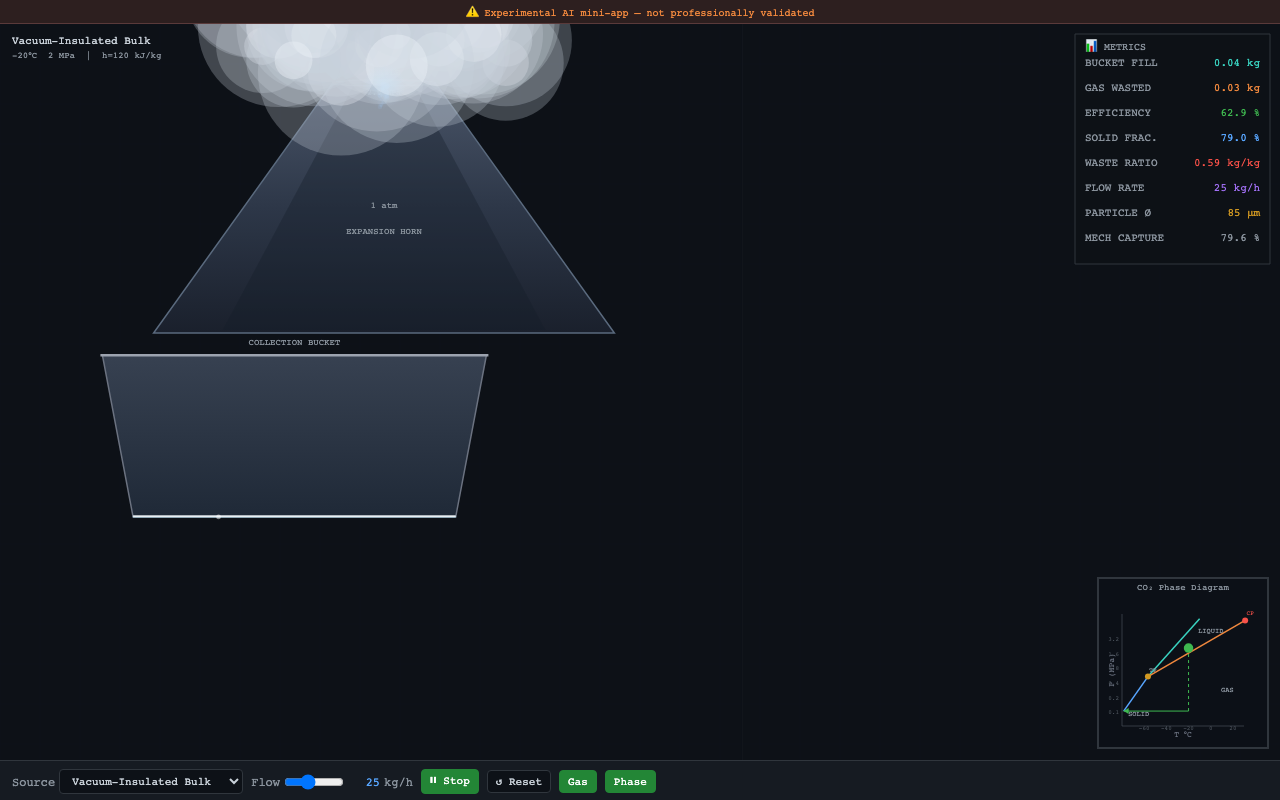
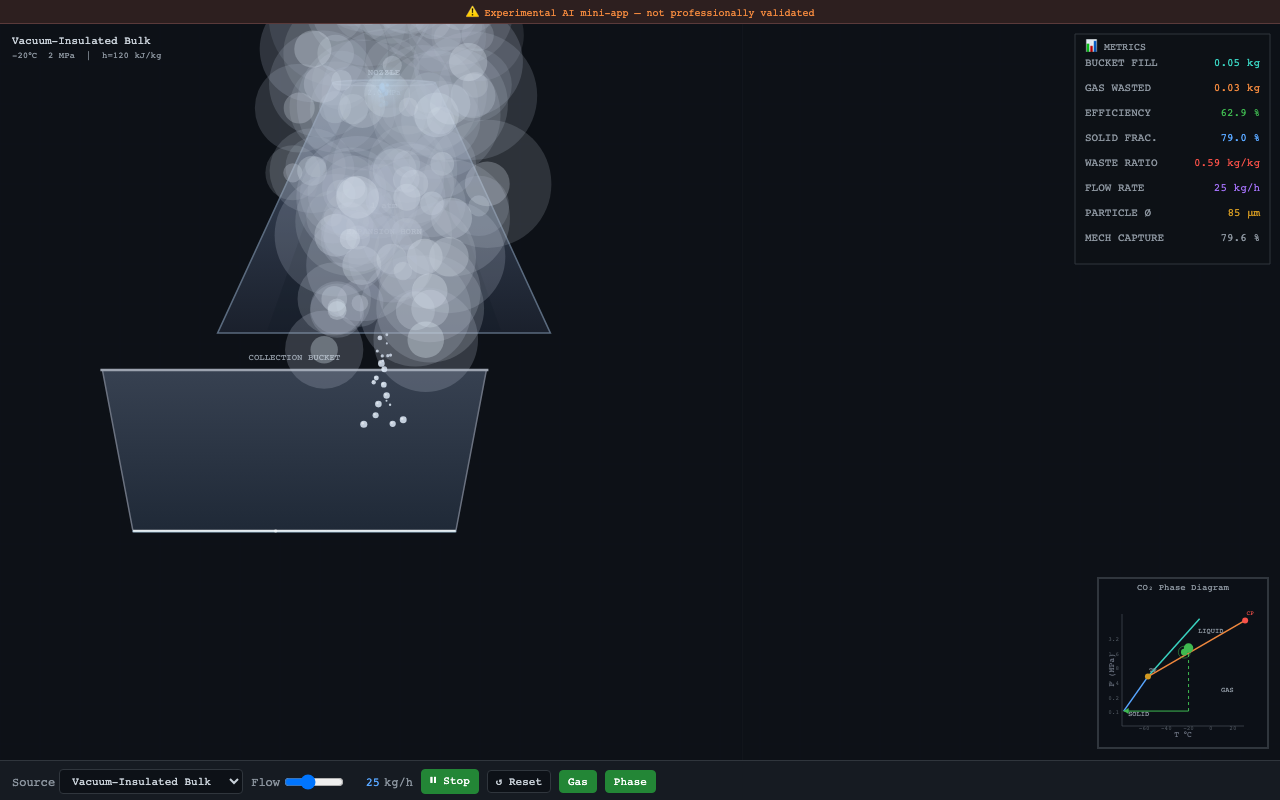
CO2 Snow Maker v2.5 — continuous snow/gas, narrower horn, lower bucket, transparent plumes, animated phase dot

Changed region(s): [[0.0625, 0.0312, 0.4688, 0.5625], [0.0938, 0.5312, 0.375, 0.6875]]

diff --git a/app-gallery/apps/2026-05-02-co2-snow-maker/index.html b/app-gallery/apps/2026-05-02-co2-snow-maker/index.html
@@ -90,9 +90,9 @@ function spawnSnow(){
 }
 function spawnGas(){
   if(!showGas)return;
-  const cx=W*.30, hb=H*.42, gy=hb+H*.03;
-  for(let k=0;k<10;k++){
-    gasP.push({x:cx+(Math.random()-.5)*140, y:gy+Math.random()*20, vx:(Math.random()-.5)*60, vy:-(100+Math.random()*200), r:25+Math.random()*50, life:1, ph:Math.random()*Math.PI*2});
+  const cx=W*.30, hb=H*.42, gy=hb+H*.05;
+  for(let k=0;k<4;k++){
+    gasP.push({x:cx+(Math.random()-.5)*140, y:gy+Math.random()*20, vx:(Math.random()-.5)*50, vy:-(80+Math.random()*160), r:20+Math.random()*40, life:1, ph:Math.random()*Math.PI*2});
   }
 }
 
@@ -104,8 +104,20 @@ function update(dt){
   t+=dt;
 
   if(liqP.length<30) spawnLiq();
-  if(snowP.length<250) for(let i=0;i<3;i++) spawnSnow();
-  if(gasP.length<400) spawnGas();
+  
+  // Continuous snow spawn based on flow rate
+  const snowPerSec = flow * 0.5;
+  const toSpawn = Math.floor(snowPerSec * dt);
+  for(let i=0;i<toSpawn;i++) spawnSnow();
+  
+  // Always spawn at least some
+  if(Math.random()<snowPerSec*dt-toSpawn) spawnSnow();
+  
+  // Continuous gas spawn
+  const gasPerSec = flow * 0.4;
+  const gasToSpawn = Math.floor(gasPerSec * dt);
+  for(let i=0;i<gasToSpawn;i++) spawnGas();
+  if(Math.random()<gasPerSec*dt-gasToSpawn) spawnGas();
 
   // Liquid - fall through horn
   for(let p of liqP){
@@ -115,7 +127,7 @@ function update(dt){
   liqP=liqP.filter(p=>p.life>0&&p.y<H*.35);
 
   // Bucket params matching draw
-  const bx=W*.08, bw=W*.30, by=H*.52, bh=H*.22;
+  const bx=W*.08, bw=W*.30, by=H*.55, bh=H*.22;
   const bB=by+bh;
 
   // Snow - gravity + bucket capture
@@ -131,7 +143,8 @@ function update(dt){
       if(!p.inB){p.inB=true;p.vx*=0.15;p.vy*=0.05;}
       if(p.y>bB-6){p.y=bB-6;p.vy=0;p.vx*=0.3;}
     } else if(p.y>bB){p.life=0;}
-    p.life-=dt*.08;
+    // Don't decay life for settled particles
+    if(!p.inB) p.life-=dt*.05;
   }
   snowP=snowP.filter(p=>p.life>0);
 
@@ -140,7 +153,7 @@ function update(dt){
     p.y+=p.vy*dt;
     p.x+=p.vx*dt+Math.sin(p.ph+t*4)*20*dt;
     p.r+=dt*3;
-    p.life-=dt*.15;
+    p.life-=dt*.12;
   }
   gasP=gasP.filter(p=>p.life>0);
 }
@@ -163,10 +176,10 @@ function draw(){
   // ── Layout coordinates ──
   const cx=W*.30;
   const nt=W*.04;      // horn top radius
-  const nb=W*.18;      // horn bottom radius
+  const nb=W*.13;      // horn bottom radius (narrower than bucket)
   const hy=H*.08;      // horn top Y
   const hb=H*.42;      // horn bottom Y
-  const gap=H*.03;
+  const gap=H*.05;     // gap between horn and bucket
   // Bucket
   const bx=W*.08, bw=W*.30;
   const by=hb+gap;
@@ -289,15 +302,15 @@ function draw(){
     }
   }
 
-  // ── GAS PLUMES ──
+  // ── GAS PLUMES (more transparent, continuous) ──
   for(let p of gasP){
     const a=p.life;
-    // Large grey cloud
+    // Large grey cloud - more transparent
     ctx.beginPath(); ctx.arc(p.x,p.y,p.r,0,Math.PI*2);
-    ctx.fillStyle=`rgba(200,210,220,${a*.5})`; ctx.fill();
+    ctx.fillStyle=`rgba(180,190,205,${a*.25})`; ctx.fill();
     // Lighter core
-    ctx.beginPath(); ctx.arc(p.x,p.y,p.r*.4,0,Math.PI*2);
-    ctx.fillStyle=`rgba(240,245,250,${a*.65})`; ctx.fill();
+    ctx.beginPath(); ctx.arc(p.x,p.y,p.r*.35,0,Math.PI*2);
+    ctx.fillStyle=`rgba(220,230,240,${a*.35})`; ctx.fill();
   }
 
   // Nozzle flash
@@ -362,6 +375,16 @@ function draw(){
     ctx.beginPath(); ctx.moveTo(sx,sy); ctx.lineTo(sx,pY(.1013)); ctx.stroke();
     ctx.setLineDash([]);
     ctx.beginPath(); ctx.moveTo(sx,pY(.1013)); ctx.lineTo(tX(TATM),pY(.1013)); ctx.stroke();
+
+    // Animated expansion dot
+    const expT=t*2; // cycle time
+    const expPhase=(expT%1);
+    const ex=sx+(tX(TATM)-sx)*expPhase;
+    const ey=sy+(pY(.1013)-sy)*expPhase;
+    ctx.fillStyle='#3fb950';
+    ctx.beginPath(); ctx.arc(ex,ey,3+Math.sin(expT*Math.PI)*1.5,0,Math.PI*2); ctx.fill();
+    ctx.strokeStyle='rgba(63,185,80,0.5)';
+    ctx.beginPath(); ctx.arc(ex,ey,6,0,Math.PI*2); ctx.stroke();
 
     // Arrow
     ctx.beginPath(); ctx.moveTo(tX(TATM),pY(.1013));
